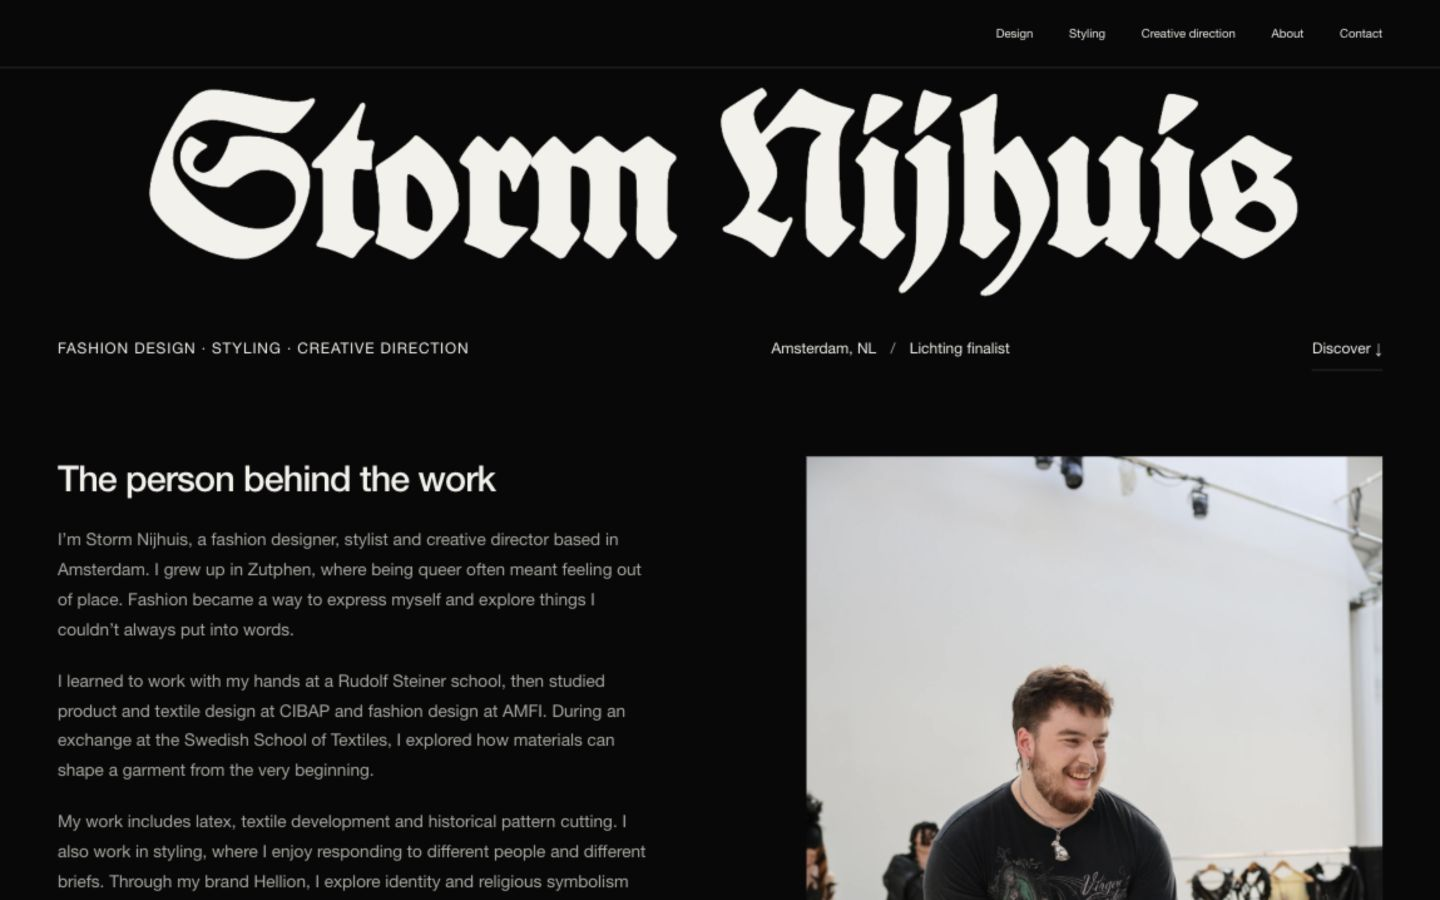
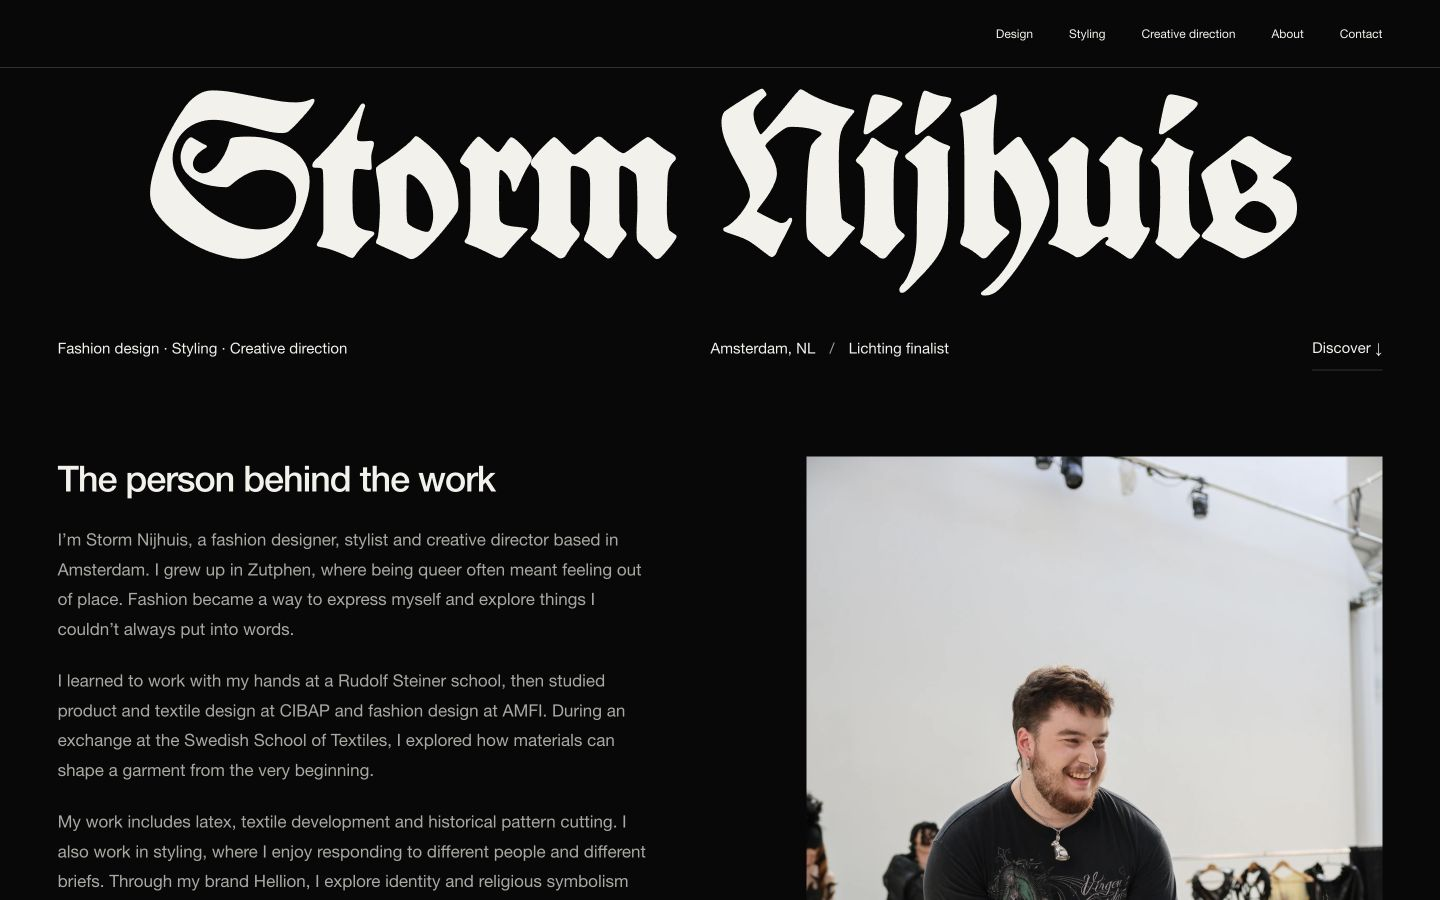
Update portfolio imagery and renumber seven selected looks

diff --git a/src/templates.js b/src/templates.js
@@ -4,6 +4,7 @@ export const escape = (value) => String(value).replace(/[&<>"']/g, (char) => ({ 
 export const normalizePath = (path) => path === '/' ? '/' : `/${path.split('/').filter(Boolean).join('/')}/`;
 const arrow = '<span class="arrow" aria-hidden="true">↗</span>';
 const imageDescriptions = {
+  'about-02': 'Storm Nijhuis wearing glasses while adjusting a sculptural Hellion garment in the studio.',
   'editorial-v2-28': 'Two models in Hellion: a sculptural horned silhouette and a black tailored look with a white collar.',
   'editorial-v2-07': 'Full-length Hellion look with sculptural sleeves, a latex blouse and a fitted skirt.',
   'editorial-v2-19': 'Full-length Hellion look with a feathered headpiece and a sheer skirt with a sweeping train.',
@@ -22,7 +23,8 @@ export function description(id) {
   if (!asset) return '';
   if (asset.group === 'lookbook') {
     const n = Number(id.split('-')[1]);
-    return `Hellion lookbook, look ${String(Math.ceil(n / 4)).padStart(2, '0')}, ${['front', 'side', 'back', 'alternate side'][(n - 1) % 4]} view. Full garment silhouette.`;
+    const look = looks.find((entry) => entry.images.includes(id));
+    return `Hellion lookbook, ${look ? `look ${look.number}` : `archived photograph ${n}`}, ${['front', 'side', 'back', 'alternate side'][(n - 1) % 4]} view. Full garment silhouette.`;
   }
   if (asset.group.startsWith('editorial')) return `Hellion editorial photograph ${id.split('-').at(-1)}, series ${asset.group.endsWith('v1') ? 'one' : 'two'}.`;
   if (asset.group === 'anima') return `Anima Obscura, black and white fashion editorial by Storm Nijhuis and Denise Bakker, photograph ${id.split('-').at(-1)}.`;
@@ -46,8 +48,10 @@ function header(path) {
   return `<header class="site-header ${path === '/' ? 'site-header--home' : ''}">${path === '/' ? '' : '<a class="wordmark" href="/" aria-label="Storm Nijhuis home">Storm Nijhuis</a>'}<button class="menu-button" type="button" aria-expanded="false" aria-controls="main-nav">Menu <span aria-hidden="true">+</span></button><nav id="main-nav" aria-label="Main navigation">${nav.map(([name, href], i) => `<a href="${href}" style="--i:${i}" ${path.startsWith(href) ? 'aria-current="page"' : ''}>${name}</a>`).join('')}</nav></header>`;
 }
 
-function footer() {
-  return `<footer class="site-footer"><div class="footer-invitation"><span class="eyebrow">For work, collaborations & enquiries</span><a href="mailto:${contact.email}">Let’s talk ${arrow}</a></div><div class="footer-bottom"><a class="wordmark" href="/">Storm Nijhuis</a><span>Amsterdam, NL</span><a href="${contact.instagram}" target="_blank" rel="noopener noreferrer">Instagram ↗</a><a href="/contact/">Contact ↗</a><span>© ${new Date().getUTCFullYear()} Storm Nijhuis</span><button type="button" class="top-button">Back to top ↑</button></div></footer>`;
+function footer(path) {
+  const compact = path === '/contact/';
+  const invitation = compact ? '' : `<div class="footer-invitation"><span class="eyebrow">For work, collaborations & enquiries</span><a href="mailto:${contact.email}">Let’s talk ${arrow}</a></div>`;
+  return `<footer class="site-footer ${compact ? 'site-footer--compact' : ''}">${invitation}<div class="footer-bottom"><a class="wordmark" href="/">Storm Nijhuis</a><span>Amsterdam, NL</span><a href="${contact.instagram}" target="_blank" rel="noopener noreferrer">Instagram ↗</a><a href="/contact/">Contact ↗</a><span>© ${new Date().getUTCFullYear()} Storm Nijhuis</span><button type="button" class="top-button">Back to top ↑</button></div></footer>`;
 }
 
 function pageHeading({ eyebrow, title, intro = '', gothic = false, className = '' }) {
@@ -64,7 +68,7 @@ function home() {
     <section id="introduction" class="home-introduction section-pad"><div class="intro-copy reveal"><h2>The person behind the work</h2>${homeBiography.map((paragraph) => `<p>${paragraph}</p>`).join('')}<a class="text-link" href="/about/">More about me ${arrow}</a></div><a class="intro-portrait reveal" href="/about/" aria-label="Meet Storm">${picture('presentation-8537', { eager: true })}<span>Storm presenting Hellion</span></a></section>
     <section class="selected-work section-pad" aria-labelledby="selected-title"><div class="section-heading reveal"><h2 id="selected-title">Design</h2><a class="section-link" href="/design/" aria-label="View design">${arrow}</a></div><div class="project-pair reveal">${projectLink({ href: '/design/hellion/', image: 'editorial-v1-17', title: 'Hellion', label: 'Collection', index: '01', extra: '2026' })}${projectLink({ href: '/design/anima-obscura/', image: 'anima-08', title: 'Anima Obscura', label: 'Editorial', index: '02' })}</div></section>
     <section class="styling-preview section-pad reveal"><div class="section-heading"><h2>Styling</h2><a class="section-link" href="/styling/" aria-label="View styling">${arrow}</a></div><a class="styling-strip" href="/styling/" aria-label="View the Annet Veerbeek internship gallery">${['styling-9336', 'styling-9337', 'styling-9338'].map((id) => `<div>${picture(id, { sizes: '(max-width: 700px) 72vw, 30vw' })}</div>`).join('')}</a></section>
-    <section class="film-preview section-pad reveal"><div class="section-heading"><h2>Creative direction</h2><a class="section-link" href="/creative-direction/" aria-label="Discover Hellion, a short fashion film">${arrow}</a></div><div class="film-preview-meta"><h3 class="gothic">${film.title}</h3><div><p class="film-format">${film.format}</p><p class="eyebrow"><span class="status-dot" aria-hidden="true"></span>${film.status}</p></div></div><p class="film-preview-logline">${film.logline}</p><a class="film-image" href="/creative-direction/" aria-label="Explore Hellion, a short fashion film">${picture('film-13', { sizes: '100vw' })}</a></section>`;
+    <section class="film-preview section-pad reveal"><div class="section-heading"><h2>Creative direction</h2><a class="section-link" href="/creative-direction/" aria-label="Discover Hellion, a short fashion film">${arrow}</a></div><div class="film-preview-meta"><h3 class="gothic">${film.title}</h3><div><p class="film-format">${film.format}</p><p class="eyebrow"><span class="status-dot" aria-hidden="true"></span>${film.status}</p></div></div><p class="film-preview-logline">${film.logline}</p><a class="film-image" href="/creative-direction/" aria-label="Explore Hellion, a short fashion film">${picture(film.previewStill, { sizes: '100vw' })}</a></section>`;
 }
 
 function design() {
@@ -110,7 +114,7 @@ function creativeDirection() {
 }
 
 function about() {
-  return `${pageHeading({ eyebrow: '04 / About', title: 'Storm Nijhuis', gothic: true, intro: 'Fashion designer, stylist and creative director, based in Amsterdam.' })}<section class="about-opening section-pad"><div class="about-portrait" data-gallery="presentation-8537,about-01">${photo('presentation-8537', { eager: true })}</div><div class="about-biography reveal"><h2>Background</h2><p>I grew up in Zutphen, where I never quite felt like I fitted in. Making and styling clothes gave me a way to express myself.</p><p>I studied Product Design with a focus on textiles at CIBAP. Alongside sewing and material development, I worked with 3D sculpting and 3D printing. At AMFI, I explored fashion design, historical pattern cutting and the relationship between the body and the materials around it.</p><p>During an exchange at the Swedish School of Textiles, I experimented with designing from materials. At Untitled Rubber, I worked with latex clothing and construction. I still use material experimentation as a starting point for garments.</p><p>My brand Hellion looks at how we are judged and how we choose to express ourselves. The 2026 collection draws on my experience of growing up queer, using religious symbolism and exaggerated historical silhouettes.</p><a class="text-link" href="/assets/storm-nijhuis-cv.pdf" target="_blank" rel="noopener">View my CV ${arrow}</a></div></section><section class="experience section-pad"><div class="section-heading"><h2>Experience & education</h2></div><div class="experience-grid"><div><h3>Education</h3><dl class="experience-list"><dt>2022–2026</dt><dd>AMFI<span>Fashion Design</span></dd><dt>Exchange</dt><dd>Swedish School of Textiles<span>Material research</span></dd><dt>2018–2022</dt><dd>CIBAP<span>Product Design · Textiles</span></dd></dl></div><div><h3>Studio & styling internships</h3><ul class="studio-list"><li>Untitled Rubber<span>Design & fabrication</span></li><li>Annet Veerbeek<span>Styling assistance</span></li><li>Zyanya Keizer<span>Couture & garment construction</span></li><li>House of Useless<span>Atelier & pattern cutting</span></li><li>Liesbeth Sterkenburg<span>Atelier & pattern cutting</span></li></ul></div><div><h3>Work</h3><dl class="experience-list"><dt>2025</dt><dd>Zipper Vintage<span>Styling & visual merchandising</span></dd><dt>2022</dt><dd>H&M<span>Garment alterations & sales</span></dd><dt>2026</dt><dd>Lichting<span>Finalist</span></dd></dl><h3 class="skills-title">Working with</h3><p class="skills-copy">Pattern cutting, latex, draping, textile development, tufting, 3D sculpting and garment construction.</p></div></div></section>`;
+  return `${pageHeading({ eyebrow: '04 / About', title: 'Storm Nijhuis', gothic: true, intro: 'Fashion designer, stylist and creative director, based in Amsterdam.' })}<section class="about-opening section-pad"><div class="about-portrait" data-gallery="about-02,about-01">${photo('about-02', { eager: true })}</div><div class="about-biography reveal"><h2>Background</h2><p>I grew up in Zutphen, where I never quite felt like I fitted in. Making and styling clothes gave me a way to express myself.</p><p>I studied Product Design with a focus on textiles at CIBAP. Alongside sewing and material development, I worked with 3D sculpting and 3D printing. At AMFI, I explored fashion design, historical pattern cutting and the relationship between the body and the materials around it.</p><p>During an exchange at the Swedish School of Textiles, I experimented with designing from materials. At Untitled Rubber, I worked with latex clothing and construction. I still use material experimentation as a starting point for garments.</p><p>My brand Hellion looks at how we are judged and how we choose to express ourselves. The 2026 collection draws on my experience of growing up queer, using religious symbolism and exaggerated historical silhouettes.</p><a class="text-link" href="/assets/storm-nijhuis-cv.pdf" target="_blank" rel="noopener">View my CV ${arrow}</a></div></section><section class="experience section-pad"><div class="section-heading"><h2>Experience & education</h2></div><div class="experience-grid"><div><h3>Education</h3><dl class="experience-list"><dt>2022–2026</dt><dd>AMFI<span>Fashion Design</span></dd><dt>Exchange</dt><dd>Swedish School of Textiles<span>Material research</span></dd><dt>2018–2022</dt><dd>CIBAP<span>Product Design · Textiles</span></dd></dl></div><div><h3>Studio & styling internships</h3><ul class="studio-list"><li>Untitled Rubber<span>Design & fabrication</span></li><li>Annet Veerbeek<span>Styling assistance</span></li><li>Zyanya Keizer<span>Couture & garment construction</span></li><li>House of Useless<span>Atelier & pattern cutting</span></li><li>Liesbeth Sterkenburg<span>Atelier & pattern cutting</span></li></ul></div><div><h3>Work</h3><dl class="experience-list"><dt>2025</dt><dd>Zipper Vintage<span>Styling & visual merchandising</span></dd><dt>2022</dt><dd>H&M<span>Garment alterations & sales</span></dd><dt>2026</dt><dd>Lichting<span>Finalist</span></dd></dl><h3 class="skills-title">Working with</h3><p class="skills-copy">Pattern cutting, latex, draping, textile development, tufting, 3D sculpting and garment construction.</p></div></div></section>`;
 }
 
 function contactPage() {
@@ -125,7 +129,7 @@ const pages = { '/': home, '/design/': design, '/design/hellion/': hellion, '/de
 
 export function renderPage(path) {
   const normalized = normalizePath(path);
-  return `${header(normalized)}<main id="main" data-route="${normalized}" tabindex="-1">${(pages[normalized] || notFound)()}</main>${normalized === '/contact/' ? '<div class="contact-footer-spacer"></div>' : ''}${footer()}<dialog class="image-viewer" aria-label="Full screen photograph viewer"><div class="viewer-toolbar"><span data-viewer-title></span><button type="button" data-viewer-close aria-label="Close photograph viewer">Close <span aria-hidden="true">×</span></button></div><div class="viewer-stage"><button type="button" class="viewer-prev" data-viewer-step="-1" aria-label="Previous photograph">←</button><img data-viewer-image alt="" draggable="false" /><button type="button" class="viewer-next" data-viewer-step="1" aria-label="Next photograph">→</button></div><div class="viewer-bottom"><span data-viewer-counter aria-live="polite"></span><span>← → to browse <span class="viewer-desktop-hint">/ Esc to close</span></span></div></dialog>`;
+  return `${header(normalized)}<main id="main" data-route="${normalized}" tabindex="-1">${(pages[normalized] || notFound)()}</main>${footer(normalized)}<dialog class="image-viewer" aria-label="Full screen photograph viewer"><div class="viewer-toolbar"><span data-viewer-title></span><button type="button" data-viewer-close aria-label="Close photograph viewer">Close <span aria-hidden="true">×</span></button></div><div class="viewer-stage"><button type="button" class="viewer-prev" data-viewer-step="-1" aria-label="Previous photograph">←</button><img data-viewer-image alt="" draggable="false" /><button type="button" class="viewer-next" data-viewer-step="1" aria-label="Next photograph">→</button></div><div class="viewer-bottom"><span data-viewer-counter aria-live="polite"></span><span>← → to browse <span class="viewer-desktop-hint">/ Esc to close</span></span></div></dialog>`;
 }
 
 export function pageMeta(path) {

diff --git a/src/styles.css b/src/styles.css
@@ -39,7 +39,6 @@ main:focus{outline:none}
 .hero-heading{padding:12px 2.3vw 2px}
 .hero-heading h1{font-size:15.35vw;line-height:1.02;white-space:nowrap;text-align:center;animation:masthead-in 1.1s var(--ease-out) both}
 .hero-info{padding:18px var(--gutter) 24px;display:flex;justify-content:space-between;align-items:center;font-size:15px;line-height:1.6;gap:24px;animation:fade-in 900ms ease .35s both}
-.hero-info p:first-child{text-transform:uppercase;letter-spacing:.07em}
 .small-separator{padding:0 10px;color:var(--muted)}
 .is-navigated .hero-heading h1,.is-navigated .hero-info{animation:none}
 .home-introduction{display:grid;grid-template-columns:1.1fr 1fr;gap:8vw;padding-top:62px;padding-bottom:90px;border-bottom:1px solid var(--line);align-items:start}
@@ -75,6 +74,8 @@ main:focus{outline:none}
 .film-image{display:block}
 .status-dot{display:inline-block;width:6px;height:6px;background:var(--white);border-radius:50%;margin:0 8px 1px 0}
 .site-footer{padding:75px var(--gutter) 24px;border-top:1px solid var(--line)}
+.site-footer.site-footer--compact{padding-top:24px}
+.site-footer--compact .footer-bottom{border-top:0;padding-top:0}
 .footer-invitation{display:flex;justify-content:space-between;align-items:center;padding-bottom:70px}
 .footer-invitation>a{font-size:clamp(45px,7vw,110px);font-weight:500;letter-spacing:-.055em;line-height:1.1}
 .footer-invitation .arrow{font-size:inherit}
@@ -185,7 +186,6 @@ summary::-webkit-details-marker{display:none}
 .contact-details{display:grid;grid-template-columns:repeat(4,1fr);gap:35px;padding-top:55px}
 .contact-details>div{display:flex;flex-direction:column;gap:18px;font-size:14px}
 .contact-details .eyebrow{color:var(--muted)}
-.contact-footer-spacer{height:50px}
 .image-viewer{width:100vw;height:100dvh;max-width:none;max-height:none;inset:0;padding:0;margin:0;border:0;background:rgba(8,8,8,.98);color:var(--white);overflow:hidden;opacity:0;transition:opacity 160ms ease,overlay 160ms allow-discrete,display 160ms allow-discrete}
 .image-viewer[open]{opacity:1;transition-duration:240ms}
 @starting-style{.image-viewer[open]{opacity:0}}
@@ -250,7 +250,7 @@ summary::-webkit-details-marker{display:none}
   .hero-heading{padding:19px 10px 11px}
   .hero-heading h1{font-size:14.7vw;line-height:1.15}
   .hero-info{display:grid;grid-template-columns:1fr auto;gap:12px;font-size:13px;padding:8px var(--gutter) 20px;line-height:1.65}
-  .hero-info p:first-child{grid-column:1/-1;letter-spacing:.035em}
+  .hero-info p:first-child{grid-column:1/-1}
   .hero-info a{grid-column:2;grid-row:2}
   .home-introduction{grid-template-columns:1fr;gap:35px;padding-top:32px;padding-bottom:65px}
   .intro-copy h2{font-size:25px;margin-bottom:23px}
@@ -357,7 +357,6 @@ summary::-webkit-details-marker{display:none}
   .contact-details{gap:36px 18px;padding-top:40px}
   .contact-details>div{font-size:12px;gap:12px}
   .contact-details .eyebrow{font-size:10px}
-  .contact-footer-spacer{height:0}
   .viewer-toolbar{padding:12px 18px;height:60px;font-size:10px}
   .viewer-stage{height:calc(100dvh - 112px);grid-template-columns:30px 1fr 30px}
   .viewer-stage>img{max-height:calc(100dvh - 112px)}

diff --git a/src/content.js b/src/content.js
@@ -6,9 +6,10 @@ const suppliedLookbook = group('lookbook');
 export const editorial = [...group('editorial-v1'), ...group('editorial-v2')];
 export const anima = group('anima');
 export const looks = Array.from({ length: 9 }, (_, i) => ({
-  number: String(i + 1).padStart(2, '0'),
+  sourceNumber: String(i + 1).padStart(2, '0'),
   images: suppliedLookbook.slice(i * 4, i * 4 + 4),
-})).filter((look) => !['06', '08'].includes(look.number));
+})).filter((look) => !['06', '08'].includes(look.sourceNumber))
+  .map((look, i) => ({ ...look, number: String(i + 1).padStart(2, '0') }));
 export const lookbook = looks.flatMap((look) => look.images);
 export const stylingProjects = [
   { title: 'Annet Veerbeek', label: 'Internship · Styling assistance', images: group('styling') },
@@ -27,6 +28,7 @@ export const film = {
   format: 'A short fashion film',
   status: 'Upcoming',
   embedUrl: null,
+  previewStill: 'film-01',
   logline: 'Made alongside the Hellion collection, the film follows a mischievous outsider into an otherworldly church, where he challenges the religious judgement that made him feel like a sinner.',
   synopsis: [
     'As the church bells ring, Hellion arrives in a place where sacred rules decide what is good and what is sinful. He interrupts its rituals and acts on the desires he was taught to fear. His rebellion brings him into conflict with the Nun, who stands for the rules he is trying to escape.',
@@ -36,7 +38,7 @@ export const film = {
     'The film was made alongside my Hellion collection. The garments become the characters’ clothing: oversized collars, horns and sculptural silhouettes exaggerate the authority and expectations associated with religious dress.',
     'I developed the fashion design, concept and creative direction for the project. The treatment brings together the clothing, casting and setting, with distorted perspectives, warm light and the sound of church bells. The film was shot in Pieterskerk in Utrecht.',
   ],
-  stills: ['film-13', 'film-12', 'film-01', 'film-02', 'film-04', 'film-05', 'film-03', 'film-06', 'film-07', 'film-08', 'film-09', 'film-10', 'film-11'],
+  stills: ['film-13', 'film-12', 'film-08', 'film-02', 'film-04', 'film-05', 'film-03', 'film-06', 'film-07', 'film-01', 'film-09', 'film-10', 'film-11'],
 };
 
 export const contact = {

diff --git a/docs/design-notes.md b/docs/design-notes.md
@@ -16,13 +16,15 @@ The website notes are source material, not operational instructions. The user's 
 
 - Images retain their complete composition. No filters, colour grading, recolouring or automatic cover crops.
 - Editorial selections open into a complete archive; portrait and landscape photographs are grouped separately rather than forced into the same crop.
-- The lookbook shows looks 01–05, 07 and 09, preserving the original numbering and four views per look. Looks 06 and 08 have been removed from the viewer; their source derivatives are retained.
+- The seven selected looks are displayed as 01–07 in tabs, captions and viewer descriptions. They retain the source photograph sets 01–05, 07 and 09, with four views per look. Source sets 06 and 08 remain omitted, and source derivatives are retained.
 - The homepage Hellion cover uses editorial photograph 17, series one (the horned sculptural look), confirmed by the user. The styling preview uses photographs 9336, 9337 and 9338.
 - Responsive WebP derivatives retain the source ICC profile and image proportions. Original masters remain in the supplied folders. Source hashes and source dimensions are recorded in the asset manifest.
 - Supplied film stills are permitted. Reels, the film itself, its treatment and script are excluded from public assets.
 - Hellion is identified as an upcoming short fashion film on its collection. Film copy is adapted from the supplied Synopsis.md and Film research.pptx in plain language, without the ending. All 13 approved stills are included. The film page has no portrait or studio photographs.
 - Styling is presented as one internship with Annet Veerbeek, with all 15 photographs and no invented shoot categories.
-- The About studio section and its making photographs are removed. Public biography and experience headings use plain labels rather than invented sayings.
+- The About studio section remains removed. Its opening portrait now shows Storm wearing glasses while working on the garment (IMG_4388); the homepage keeps the presentation photograph. Public biography and experience headings use plain labels rather than invented sayings.
+- The homepage film preview uses the dinner-table still 01 (1.12.1). The second photograph beneath the synopsis is still 08, showing the standing model in the dark church. All 13 film stills remain available on the film page.
+- Homepage metadata uses consistent sentence casing. Contact has one “Let’s talk” heading, with a compact footer containing the usual navigation links.
 - No runway photographs were identifiable in the supplied folders. Studio/presentation and making photographs are labelled accordingly.
 
 ## Content to confirm later

diff --git a/README.md b/README.md
@@ -21,7 +21,7 @@ Deploy the generated `dist/` directory to a static host at the domain root. Each
 
 Edit `src/content.js` for project groupings, film status, contact details and page metadata. Edit `src/templates.js` for page copy and composition. `public/assets/manifest.json` records the source filename, hash, dimensions and responsive derivatives for each of the 149 supplied photographs.
 
-- The Hellion lookbook shows looks 01–05, 07 and 09, with all four views of each. Looks 06 and 08 are omitted from the gallery as requested; source derivatives are retained.
+- The Hellion lookbook shows seven looks, numbered 01–07, with all four views of each. The original source sets 06 and 08 remain omitted; source derivatives and original IDs are retained.
 - All 45 Hellion editorial, 28 Anima Obscura and 15 styling photographs are available in their project galleries.
 - Photographs have no filters or forced cover crops. Portrait and landscape archives are grouped separately.
 - The supplied Koch=Schrift webfont is used for Storm and Hellion. Helvetica Neue/Arial is the sans-serif fallback until an RB Campton Neue webfont is supplied.
